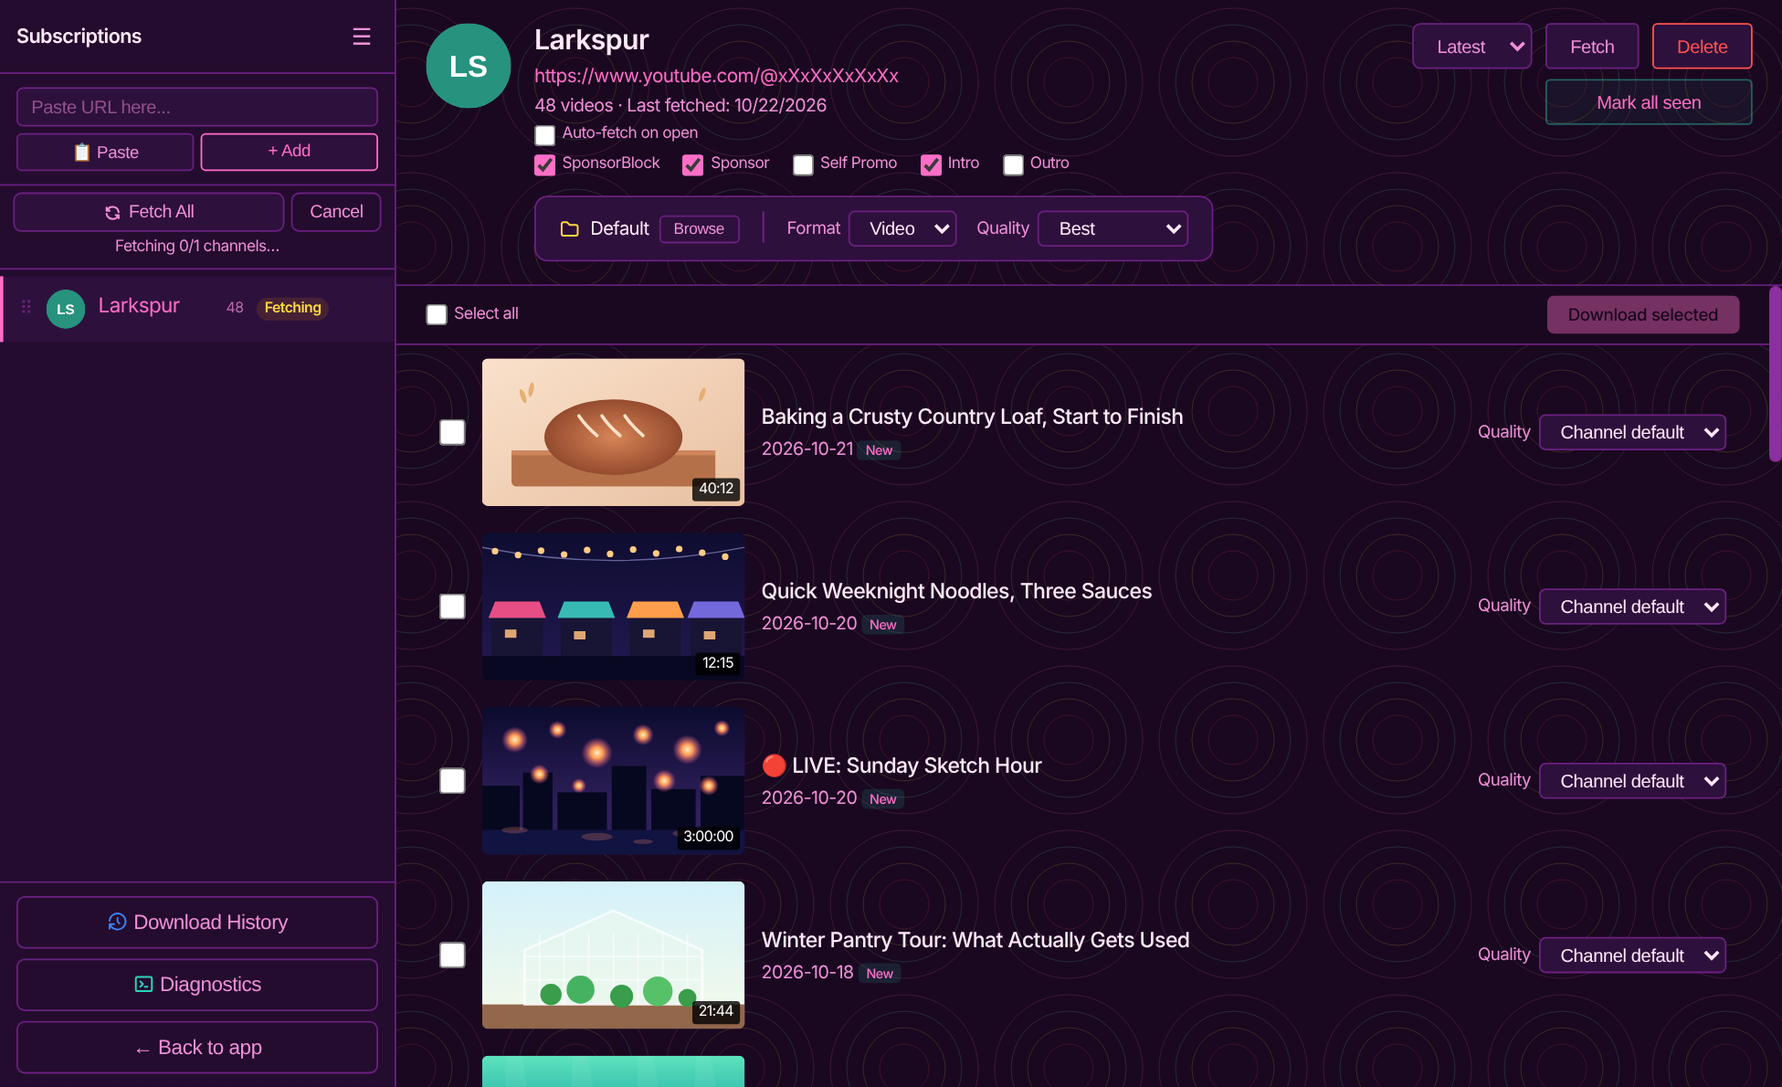
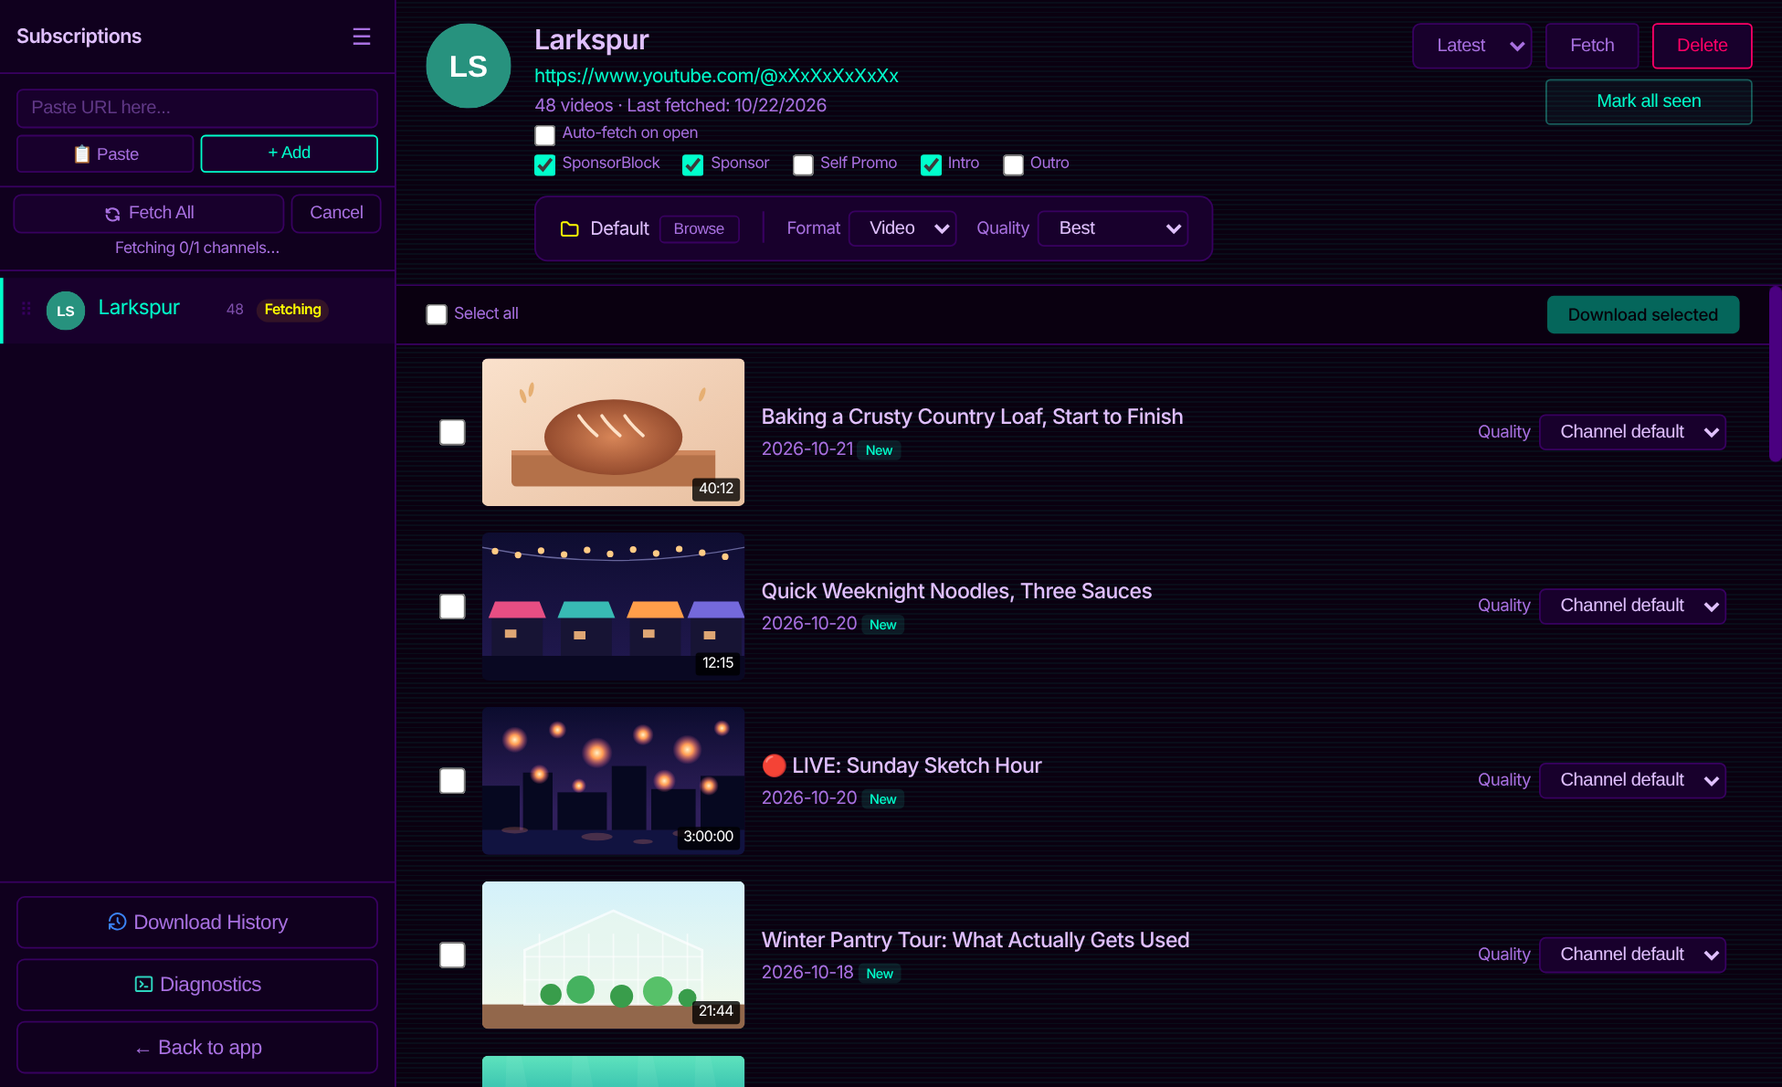
docs: v1.5.5.0 release hashes and sizes, the new screenshots, the .deb and .rpm in the README download section, MP4 H.265 in the Video line, the SECURITY.md Linux sandbox section for the AppImage and the packages, and the Linux build needs and three hashed locks in CONTRIBUTING.md

diff --git a/README.md b/README.md
@@ -19,7 +19,7 @@
     <img src="https://img.shields.io/badge/Windows-Code_Signed-0078D6?logo=windows&logoColor=white" alt="Windows Code Signed"/>
     <img src="https://img.shields.io/badge/macOS-Ventura+-000000?logo=apple&logoColor=white" alt="macOS"/>
     <img src="https://img.shields.io/badge/macOS-Notarized-000000?logo=apple&logoColor=white" alt="macOS Notarized"/>
-    <img src="https://img.shields.io/badge/Linux-AppImage-FCC624?logo=linux&logoColor=black" alt="Linux"/>
+    <img src="https://img.shields.io/badge/Linux-AppImage%2C_.deb%2C_.rpm-FCC624?logo=linux&logoColor=black" alt="Linux"/>
   </p>
 
   <p><strong>A powerful, multi-platform video and audio downloader for 1000+ websites.</strong></p>
@@ -45,7 +45,7 @@
 - 🌐 **1000+ Supported Sites** - Download from YouTube, TikTok, Instagram, Twitter, Vimeo, and more
 - 🔒 **Privacy First** - Runs entirely on your machine. No account required, no cloud processing, no analytics, and no usage tracking. Site cookies are handled locally and never pass through our servers.
 - 🖥 **Cross-Platform** - Native apps for Windows, macOS, and Linux
-- 🎬 **Video & Audio Downloads** - MP4, MKV, or MP4 H.264 (max compatibility) video up to 8K; MP3 (up to 320 kbps), M4A, OPUS, or FLAC audio
+- 🎬 **Video & Audio Downloads** - MP4, MKV, MP4 H.264 (max compatibility), or MP4 H.265 video up to 8K; MP3 (up to 320 kbps), M4A, OPUS, or FLAC audio
 - 🌈 **HDR Downloads** - Videos with HDR10, HDR10+, HLG, or Dolby Vision show as a separate option per resolution; saves as MKV to preserve HDR data untouched
 - 📋 **Playlist Support** - Download entire playlists with one click
 - ➕ **Add While Downloading** - Paste more links while downloads are running. New videos join the list and the current run, Clear keeps the downloads in progress, and one progress bar with Cancel All covers everything.
@@ -73,7 +73,7 @@
 
 ## 🖼 Screenshots
 
-> 📸 *Screenshots of v1.5.4.1, RAW FEED: RELOADED. The UI is identical across Windows, macOS, and Linux.*
+> 📸 *Screenshots of v1.5.5.0, SUDO, PLEASE. The UI is identical across Windows, macOS, and Linux.*
 
 <table>
   <tr>
@@ -82,12 +82,12 @@
       <br/><sub><b>Splash Screen</b></sub>
     </td>
     <td align="center" width="33%">
-      <a href="screenshots/02-main-ui.png"><img src="screenshots/02-main-ui.png" width="260" alt="Main UI, Saffron theme"/></a>
-      <br/><sub><b>Main UI</b> (Saffron theme)</sub>
+      <a href="screenshots/02-main-ui.png"><img src="screenshots/02-main-ui.png" width="260" alt="Main UI, Kyoto theme"/></a>
+      <br/><sub><b>Main UI</b> (Kyoto theme)</sub>
     </td>
     <td align="center" width="33%">
-      <a href="screenshots/03-advanced-panel.png"><img src="screenshots/03-advanced-panel.png" width="260" alt="Advanced Panel, Mermaid theme"/></a>
-      <br/><sub><b>Advanced Panel</b> (Mermaid theme)</sub>
+      <a href="screenshots/03-advanced-panel.png"><img src="screenshots/03-advanced-panel.png" width="260" alt="Advanced Panel, Downpour theme"/></a>
+      <br/><sub><b>Advanced Panel</b> (Downpour theme)</sub>
     </td>
   </tr>
 </table>
@@ -95,25 +95,12 @@
 <table>
   <tr>
     <td align="center" width="50%">
-      <a href="screenshots/08-live-streams.png"><img src="screenshots/08-live-streams.png" width="271" alt="Live streams recording and a download running, Lisbon theme"/></a>
-      <br/><sub><b>Live Streams</b> (Lisbon theme)</sub>
+      <a href="screenshots/08-live-streams.png"><img src="screenshots/08-live-streams.png" width="271" alt="Live streams recording and a download running, Zion theme"/></a>
+      <br/><sub><b>Live Streams</b> (Zion theme)</sub>
     </td>
     <td align="center" width="50%">
-      <a href="screenshots/09-live-reconnecting.png"><img src="screenshots/09-live-reconnecting.png" width="371" alt="A live stream reconnecting, Honey theme"/></a>
-      <br/><sub><b>Live Stream Reconnecting</b> (Honey theme)</sub>
-    </td>
-  </tr>
-</table>
-
-<table>
-  <tr>
-    <td align="center" width="50%">
-      <a href="screenshots/10-quit-when-done.png"><img src="screenshots/10-quit-when-done.png" width="308" alt="Quit when done countdown, Mac OS 9 theme"/></a>
-      <br/><sub><b>Quit When Done</b> (Mac OS 9 theme)</sub>
-    </td>
-    <td align="center" width="50%">
-      <a href="screenshots/06-advanced-plugins.png"><img src="screenshots/06-advanced-plugins.png" width="308" alt="Advanced Panel with the plugins list, Andromeda theme"/></a>
-      <br/><sub><b>Advanced Panel, Plugins</b> (Andromeda theme)</sub>
+      <a href="screenshots/09-live-reconnecting.png"><img src="screenshots/09-live-reconnecting.png" width="371" alt="A live stream reconnecting, PS1 Gray theme"/></a>
+      <br/><sub><b>Live Stream Reconnecting</b> (PS1 Gray theme)</sub>
     </td>
   </tr>
 </table>
@@ -121,12 +108,12 @@
 <table>
   <tr>
     <td align="center" width="50%">
-      <a href="screenshots/04-all-themes.png"><img src="screenshots/04-all-themes.png" width="459" alt="All Themes, Y2K theme"/></a>
-      <br/><sub><b>All Themes</b> (Y2K theme)</sub>
+      <a href="screenshots/10-quit-when-done.png"><img src="screenshots/10-quit-when-done.png" width="308" alt="Quit when done countdown, HAL theme"/></a>
+      <br/><sub><b>Quit When Done</b> (HAL theme)</sub>
     </td>
     <td align="center" width="50%">
-      <a href="screenshots/11-theme-creator.png"><img src="screenshots/11-theme-creator.png" width="320" alt="Theme Creator with a custom theme, Juniper Dusk"/></a>
-      <br/><sub><b>Theme Creator</b> (custom Juniper Dusk theme)</sub>
+      <a href="screenshots/06-advanced-plugins.png"><img src="screenshots/06-advanced-plugins.png" width="308" alt="Advanced Panel with the plugins list, Olympus theme"/></a>
+      <br/><sub><b>Advanced Panel, Plugins</b> (Olympus theme)</sub>
     </td>
   </tr>
 </table>
@@ -134,12 +121,25 @@
 <table>
   <tr>
     <td align="center" width="50%">
-      <a href="screenshots/05-subscriptions.png"><img src="screenshots/05-subscriptions.png" width="444" alt="Subscriptions, Tiedye theme"/></a>
-      <br/><sub><b>Subscriptions</b> (Tiedye theme)</sub>
+      <a href="screenshots/04-all-themes.png"><img src="screenshots/04-all-themes.png" width="459" alt="All Themes, Bitten theme"/></a>
+      <br/><sub><b>All Themes</b> (Bitten theme)</sub>
     </td>
     <td align="center" width="50%">
-      <a href="screenshots/07-download-history.png"><img src="screenshots/07-download-history.png" width="334" alt="Download History, Amsterdam theme"/></a>
-      <br/><sub><b>Download History</b> (Amsterdam theme)</sub>
+      <a href="screenshots/11-theme-creator.png"><img src="screenshots/11-theme-creator.png" width="320" alt="Theme Creator with a custom theme, Salt Flat"/></a>
+      <br/><sub><b>Theme Creator</b> (custom Salt Flat theme)</sub>
+    </td>
+  </tr>
+</table>
+
+<table>
+  <tr>
+    <td align="center" width="50%">
+      <a href="screenshots/05-subscriptions.png"><img src="screenshots/05-subscriptions.png" width="444" alt="Subscriptions, VHS theme"/></a>
+      <br/><sub><b>Subscriptions</b> (VHS theme)</sub>
+    </td>
+    <td align="center" width="50%">
+      <a href="screenshots/07-download-history.png"><img src="screenshots/07-download-history.png" width="334" alt="Download History, Sirocco theme"/></a>
+      <br/><sub><b>Download History</b> (Sirocco theme)</sub>
     </td>
   </tr>
 </table>
@@ -150,7 +150,7 @@
 🔗 **Platform page:** [windows.egmdownloader.app](https://windows.egmdownloader.app)
 **Latest:** v1.5.5.0  
 **Download:** [EGMd.zip](https://egerena.com/apps/EGMd.zip) (122 MB · ~800 MB after install)  
[2 lines of base64/hex data omitted]
 **Install:** Extract `EGMd.zip`, run `egm-setup.exe` and follow the installer. Then paste a video URL, fetch the info, and click Download.  
 **Requirements:** Windows 10/11 (64-bit), on an Intel or AMD processor. Windows 11 on ARM also works through Windows' own x64 emulation, but it is not officially supported. Nothing else: Electron and Python come with the installer  
 **Code Signed:** Installer is signed with an IV code signing certificate. SmartScreen may show a warning on first run until the certificate builds reputation.
@@ -158,8 +158,8 @@
 
 ### Windows Portable
 **Latest:** v1.5.5.0  
-**Download:** [EGMd-portable.zip](https://egerena.com/apps/EGMd-portable.zip) (724 KB · ~1 GB after first run)  
[1 lines of base64/hex data omitted]
+**Download:** [EGMd-portable.zip](https://egerena.com/apps/EGMd-portable.zip) (726 KB · ~1 GB after first run)  
[1 lines of base64/hex data omitted]
 **Install:** Extract `EGMd-portable.zip` and run `EGM Downloader.exe`. Settings and data stay in the same folder, so you can take it anywhere.  
 **Requirements:** Windows 10/11 (64-bit) · **Python 3.10+** — install from [python.org](https://www.python.org/downloads/) and tick “Add Python to PATH”  
 **No installer, no registry** — runs from any folder or USB drive (system Python 3.10+ is used only to bootstrap; the app then downloads a private Python and runs on that. Node, Electron, ffmpeg & Deno are fetched on first run, and a newer Electron after an app update that needs one)  
@@ -170,7 +170,7 @@
 🔗 **Platform page:** [mac.egmdownloader.app](https://mac.egmdownloader.app)
 **Latest:** v1.5.5.0  
 **Download:** [EGMdM.zip](https://egerena.com/apps/EGMdM.zip) (145 MB · ~300 MB after install)  
[2 lines of base64/hex data omitted]
 **Install:** Extract `EGMdM.zip`, open the `.dmg`, drag "EGM Downloader" to Applications, and launch it.  
 **Requirements:** macOS 13.0 (Ventura) or later · Apple Silicon (M1–M5) only  
 **Signed & Notarized:** This build is Apple notarized — runs without Gatekeeper warnings
@@ -180,11 +180,18 @@
 🔗 **Platform page:** [linux.egmdownloader.app](https://linux.egmdownloader.app)
 **Latest:** v1.5.5.0  
 **Download:** [EGMdL.zip](https://egerena.com/apps/EGMdL.zip) (172 MB · ~300 MB after install)  
[2 lines of base64/hex data omitted]
 **Install:** Extract `EGMdL.zip`, make it executable with `chmod +x "EGM Downloader.AppImage"`, then double-click to launch (or run it from a terminal).  
-**Format:** AppImage (Universal)  
+**Download (.deb):** [EGMdL.deb](https://egerena.com/apps/EGMdL.deb) (138 MB)  
[1 lines of base64/hex data omitted]
+**Install (.deb):** `sudo apt install ./EGMdL.deb`, then open "EGM Downloader" from the applications menu.  
+**Download (.rpm):** [EGMdL.rpm](https://egerena.com/apps/EGMdL.rpm) (123 MB)  
[1 lines of base64/hex data omitted]
+**Install (.rpm):** `sudo dnf install ./EGMdL.rpm` on Fedora or `sudo zypper install --allow-unsigned-rpm ./EGMdL.rpm` on openSUSE, then open "EGM Downloader" from the applications menu.  
+**Format:** AppImage (Universal), .deb (Debian, Ubuntu and distributions built on them) and .rpm (tested on Fedora 45, openSUSE Tumbleweed and openSUSE Leap 16.1)  
+**Not signed:** The .deb and .rpm are not signed, so your system may warn that the package comes from a third party. Check the file against its SHA256 before installing.  
 **Supported Distros:** Ubuntu 20.04+, Mint 20+, Pop!_OS, Fedora 39+, Arch, and more
-**Auto-Update:** Built-in update checker (signed release feed); it opens the download page and you replace the AppImage yourself, or check the [releases page](https://github.com/egmtm/EGM-Downloader/releases)
+**Auto-Update:** Built-in update checker (signed release feed); it opens the download page, and you replace the AppImage or install the new package yourself, or check the [releases page](https://github.com/egmtm/EGM-Downloader/releases)
 
 **First launch:** The Windows installer, macOS and Linux bundle Electron and Python inside the package, which is why their file sizes are larger, and download ffmpeg in the background on first launch. The Windows portable downloads its runtime components (Node.js, Electron, a private Python, ffmpeg) into its own folder on first launch. Electron alone is about 250 MB, so its first launch download is several hundred MB. When a newer portable needs a newer Electron, the new one is downloaded next to the current one and only switched in once it works. If the download fails or you are offline, a point update keeps the current Electron and tries again at the next launch. On all platforms the app also downloads Deno (a JavaScript runtime that improves YouTube quality) in the background.
 
@@ -196,8 +203,10 @@
 | `EGMd-portable.zip` (Windows portable) | `EGM Downloader.exe`, `instructions.txt`, `LICENSE`, `patchnotes.txt`, the `languages` folder, and the app's own files (`app.py`, `launch.py`, `.portable`, and the `electron`, `static` and `templates` folders), which are hidden after the first run to keep the folder tidy | `EGM Downloader.exe` |
 | `EGMdM.zip` (macOS) | `EGM Downloader.dmg`, `INSTRUCTIONS.txt`, `LICENSE` | `EGM Downloader.dmg` |
 | `EGMdL.zip` (Linux) | `EGM Downloader.AppImage`, `INSTRUCTIONS.txt`, `LICENSE` | `EGM Downloader.AppImage` |
+| `EGMdL.deb` (Linux, Debian and Ubuntu) | the package itself, not zipped | `sudo apt install ./EGMdL.deb` |
+| `EGMdL.rpm` (Linux, Fedora and openSUSE) | the package itself, not zipped | `sudo dnf install ./EGMdL.rpm` |
 
-Every download comes from egerena.com. The GitHub release pages carry the notes and link there. Check your zip against the SHA256 listed above.
+Every download comes from egerena.com. The GitHub release pages carry the notes and link there. Check your download against the SHA256 listed above.
 
 ---
 
@@ -209,9 +218,9 @@ Every download comes from egerena.com. The GitHub release pages carry the notes 
 
 **macOS:** macOS 13.0+ (Ventura) · Apple Silicon (M1–M5) · ~300 MB disk space · Internet on first launch (ffmpeg and Deno download)
 
-**Linux:** 64-bit distribution · ~300 MB disk space · FUSE support · Internet on first launch (ffmpeg and Deno download)
+**Linux:** 64-bit distribution · ~300 MB disk space · FUSE support (AppImage only) · Internet on first launch (ffmpeg and Deno download)
 Supported: Ubuntu 20.04/22.04/24.04/26.04, Mint 20/21/22, Pop!_OS 22.04, Zorin 16/17, elementary 7, Debian 11/12, KDE Neon, Fedora 39/40/41, openSUSE Leap 15.5/Tumbleweed, Rocky/AlmaLinux 9, Arch, Manjaro, EndeavourOS
-> Ubuntu 22.04+ may require `libfuse2`: `sudo apt install libfuse2`
+> The AppImage on Ubuntu 22.04+ may require `libfuse2`: `sudo apt install libfuse2`. The .deb and .rpm need no FUSE.
 
 ---
 
@@ -260,9 +269,9 @@ ReClip is the starting point, and it is intentionally small. Here is what this p
 
 | | [ReClip](https://github.com/averygan/reclip), where it started | EGM Downloader today |
 |---|---|---|
-| **Setup** | Install yt-dlp and ffmpeg, clone the repo and run `./reclip.sh`, or build the Docker image ([Quick Start](https://github.com/averygan/reclip#quick-start)) | Download the installer, portable zip, DMG or AppImage and open it. The Windows installer, macOS and Linux bundle Electron and Python and fetch ffmpeg and Deno on first launch; the Windows portable zip needs Python 3.10+ for its first launch |
+| **Setup** | Install yt-dlp and ffmpeg, clone the repo and run `./reclip.sh`, or build the Docker image ([Quick Start](https://github.com/averygan/reclip#quick-start)) | Download the installer, portable zip, DMG, AppImage, .deb or .rpm and open or install it. The Windows installer, macOS and Linux bundle Electron and Python and fetch ffmpeg and Deno on first launch; the Windows portable zip needs Python 3.10+ for its first launch |
 | **How you use it** | A local web server you start yourself, then open `localhost:8899` in a browser ([Quick Start](https://github.com/averygan/reclip#quick-start)) | A native desktop app window, nothing to start |
-| **Platforms** | Install commands for Homebrew or apt, or a Docker image ([Quick Start](https://github.com/averygan/reclip#quick-start)) | Windows 10/11, macOS 13+ (Apple Silicon), Linux AppImage |
+| **Platforms** | Install commands for Homebrew or apt, or a Docker image ([Quick Start](https://github.com/averygan/reclip#quick-start)) | Windows 10/11, macOS 13+ (Apple Silicon), Linux AppImage, .deb and .rpm |
 | **Formats and quality** | MP4 video or MP3 audio, resolution picker ([Features](https://github.com/averygan/reclip#features)) | MP4, MKV or H.264 MP4 video; MP3, M4A, OPUS or FLAC audio; up to 8K, HDR kept as MKV |
 | **Login required content** | Not built in ([source](https://github.com/averygan/reclip/blob/main/app.py)) | Import cookies from Chrome, Edge, Brave or Firefox, kept on your machine |
 | **Subtitles and metadata** | Not built in ([source](https://github.com/averygan/reclip/blob/main/app.py)) | Embed subtitles, thumbnail, chapters and metadata |

diff --git a/CONTRIBUTING.md b/CONTRIBUTING.md
@@ -98,7 +98,7 @@ Have an idea? Open an issue with:
 **Platform-Specific:**
 - **Windows:** NSIS (makensis), mingw-w64 (the portable launcher), curl and tar, and osslsigncode (optional: verifies the signatures); the build runs on Linux, macOS or WSL
 - **macOS:** Xcode Command Line Tools
-- **Linux:** build-essential, libfuse2
+- **Linux:** build-essential, libfuse2, rpm (for `rpmbuild`) and binutils (for `objdump`, the glibc check); `linux/BUILD.sh` stops without them
 
 ### Clone and Setup
 
@@ -135,9 +135,18 @@ It stops there on purpose. The steps after it need signed files: they check the 
 
 The installer folder is built by `windows/installer/build-folder.sh`: Electron from `windows/electron`'s
 lock through a staging package, the pinned Python (same version and release as Mac and Linux) and the
-packages of the hashed lock `windows/requirements-win-lock.txt`. Regenerate that lock after a change to
-`requirements.txt` with
-`uv pip compile requirements.txt --python-platform x86_64-pc-windows-msvc --python-version 3.11 --generate-hashes --only-binary :all: -o windows/requirements-win-lock.txt`.
+packages of the hashed lock `windows/requirements-win-lock.txt`. The Mac and Linux builds install from
+hashed locks too: `mac/requirements-mac-lock.txt` and `linux/requirements-linux-lock.txt`. After a change to
+`requirements.txt`, regenerate all three from the repository root (needs `uv`):
+
+```bash
+uv pip compile requirements.txt --python-platform x86_64-pc-windows-msvc --python-version 3.11 --generate-hashes --only-binary :all: > windows/requirements-win-lock.txt
+uv pip compile requirements.txt --python-platform x86_64-manylinux_2_17 --python-version 3.11 --generate-hashes --only-binary :all: > linux/requirements-linux-lock.txt
+uv pip compile requirements.txt --python-platform aarch64-apple-darwin --python-version 3.11 --generate-hashes --only-binary :all: > mac/requirements-mac-lock.txt
+```
+
+Keep the `>`: uv's `-o` writes a different second line, and `test_the_lock_is_for_its_platform_and_every_pin_is_hashed` rejects it.
+
 The app files both Windows editions ship are listed once, in `windows/app-files.txt`.
 
 #### macOS
@@ -421,12 +430,14 @@ EGM-Downloader/
 │
 ├── mac/                      # macOS platform
 │   ├── electron/             # Electron wrapper + builder config
+│   ├── requirements-mac-lock.txt  # Hashed lock of the app's Python packages
 │   ├── BUILD.sh              # Build script
 │   └── BUILD_NOTES.txt       # Build documentation
 │
 └── linux/                    # Linux platform
     ├── app.py                # Linux-specific backend
     ├── electron/             # Electron wrapper + builder config
+    ├── requirements-linux-lock.txt  # Hashed lock of the app's Python packages
     ├── BUILD.sh              # Build script
     └── INSTRUCTIONS.txt      # User instructions
 ```
@@ -440,7 +451,7 @@ EGM-Downloader/
 - `requirements.txt` - Python dependencies
 
 **Linux-Specific:**
-- `linux/app.py` - Linux-specific backend, AppImage paths
+- `linux/app.py` - Linux-specific backend, AppImage paths; the same backend also runs from the .deb and .rpm (installed under `/opt`)
 - `linux/requirements.txt` - Linux-specific dependencies
 
 > **Why does Linux have its own `app.py`?** The AppImage distribution model requires a self-contained package (Electron and Python are bundled inside it, and ffmpeg and Deno are downloaded on first launch) and different path resolution. These constraints make a shared backend impractical, so Linux maintains its own copy with platform-specific adaptations. The UI is shared: `linux/electron/package.json` packages the root `templates/` next to `linux/app.py`, as Mac does.

diff --git a/SECURITY.md b/SECURITY.md
@@ -231,18 +231,17 @@ EGM Downloader runs on Windows, macOS, and Linux. Each platform has slightly dif
 
 The Electron renderer process runs in an OS-level sandbox. If a renderer process is compromised (e.g., via a Chromium vulnerability), the sandbox prevents the compromised process from reading arbitrary files, writing arbitrary files, or making arbitrary network connections.
 
-### Linux — Limited sandbox (AppImage limitation)
+### Linux AppImage — Limited sandbox
 
-The Linux build ships as an AppImage. AppImage cannot set SUID on the `chrome-sandbox` helper binary, so the OS-level sandbox layer is disabled (`--no-sandbox` flag is set at startup). Other security layers remain active:
+The `.deb` and `.rpm` packages run the app's interface in Chromium's sandbox, as the Windows and macOS builds do. The AppImage keeps it off. AppImage cannot set SUID on the `chrome-sandbox` helper binary, so for the AppImage the OS-level sandbox layer is disabled (`--no-sandbox` flag is set at startup, and only inside a real AppImage). Other security layers remain active:
 
+- Context isolation is on, and the window has no Node integration
 - Navigation handlers prevent in-window navigation to external URLs
 - Content-Security-Policy enforced via Electron session
 - Token authentication on all API calls
 - Checksum verification on all downloaded binaries
 
-We're tracking this gap. Two paths forward:
-- Ship `.deb` / Flatpak alongside AppImage (sandbox works in both) — not yet scheduled; revisit when Linux usage volume justifies the added packaging and maintenance work
-- Continue documenting honestly until then
+If the sandbox cannot start on a system, the window of a `.deb` or `.rpm` install does not open. `egm-downloader --no-sandbox` starts it without the sandbox (see `linux/INSTRUCTIONS.txt`). That turns this layer off, as in the AppImage, so a compromised renderer process is no longer held back by the OS. The other layers above stay active.
 
 ---
 
